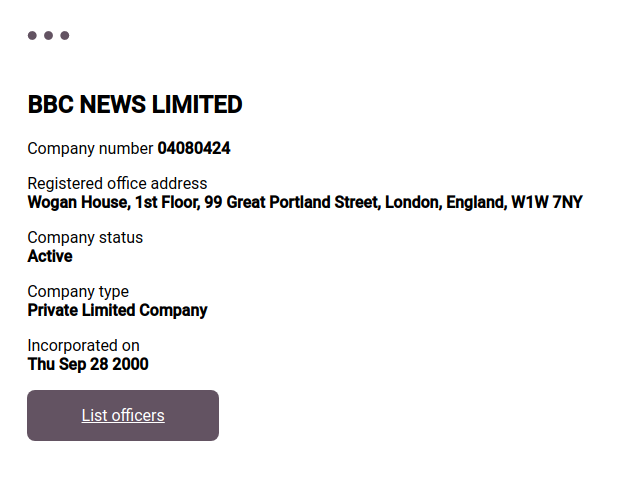
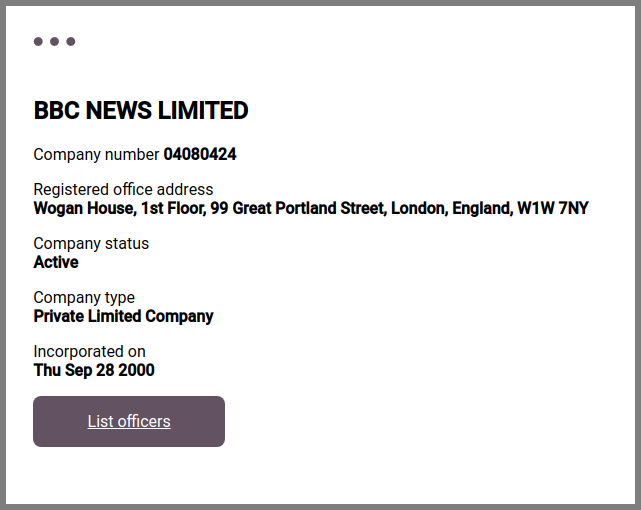
Add borders to images

Changed region(s): [[0.0, 0.0, 1.0, 1.0]]

diff --git a/README.md b/README.md
@@ -4,13 +4,13 @@
 
 This project was generated with [Angular CLI](https://github.com/angular/angular-cli) version 17.3.3.
 
-<img src="docs/images/Search.png" alt="Company Search" style="border: 2px solid  gray;">
+![Company Search](docs/images/Search.png)
 
-<img src="docs/images/SearchResults.png" alt="Search Results"  style="border: 2px solid  gray;">
+![Search Results](docs/images/SearchResults.png)
 
-<img src="docs/images/CompanyDetails.png" alt="Company Details" style="border: 2px solid  gray;">
+![Company Details](docs/images/CompanyDetails.png)
 
-<img src="docs/images/OfficersList.png" alt="Officers List" style="border: 2px solid  gray;">
+![Officers List](docs/images/OfficersList.png)
 
 ## Development server
 
